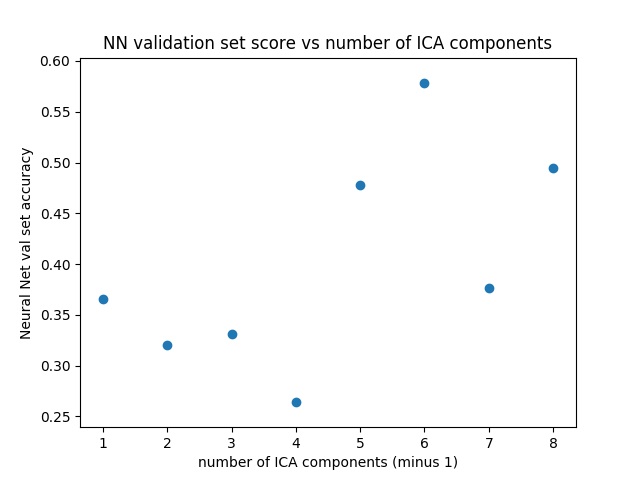
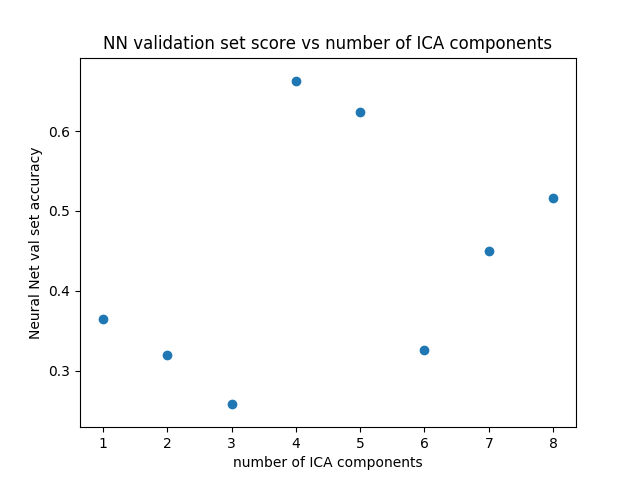
separate file for NN performance after clustering and dim reduc

diff --git a/nn.py b/nn.py
@@ -1,0 +1,107 @@
+from sklearn.decomposition import PCA, FastICA
+from sklearn.random_projection import GaussianRandomProjection
+from sklearn.feature_selection import RFE
+from sklearn.linear_model import LogisticRegression
+from sklearn.neural_network import MLPClassifier
+from sklearn.cluster import KMeans
+from sklearn.mixture import GaussianMixture
+from data import load_tennis_data, load_titanic_data
+import matplotlib.pyplot as plt
+import numpy.random as random
+import numpy as np
+
+# IMPORT DATA
+
+tit_X_train, tit_y_train, tit_X_test, tit_y_test = load_titanic_data()
+
+# Split off validation set from training set
+val_cutoff = 3*len(tit_X_train)//4
+tit_X_val = tit_X_train[val_cutoff:]
+tit_y_val = tit_y_train[val_cutoff:]
+tit_X_train = tit_X_train[:val_cutoff]
+tit_y_train = tit_y_train[:val_cutoff]
+
+tit_df = load_titanic_data(form="original df")
+tit_features, tit_labels = load_titanic_data(form="df")
+
+tit_cols = tit_features.columns
+print(tit_cols)
+
+# ICA
+
+print("\n ICA \n")
+
+ica_models = []
+for n in range(1,9):
+    # max iter set high because of convergence warnings
+    ica = FastICA(n_components=n, max_iter=1000000)
+    ica_models.append(ica)
+
+# ICA --> NN
+
+print("\nICA to NN\n")
+
+scores = []
+nn = MLPClassifier(batch_size=16, hidden_layer_sizes=7, alpha=0.001, learning_rate_init=0.01, shuffle=False, random_state=20)
+for ica_model in ica_models:
+    ica_X_train = ica_model.fit_transform(tit_X_train)
+    print(ica_X_train.shape)
+    nn.fit(ica_X_train, tit_y_train)
+
+    ica_X_val = ica_model.fit_transform(tit_X_val)
+    score = nn.score(ica_X_val, tit_y_val)
+    print("ICA to NN val set score", score)
+    scores.append(score)
+
+plt.scatter([1,2,3,4,5,6,7,8], scores)
+plt.title("NN validation set score vs number of ICA components")
+plt.xlabel("number of ICA components")
+plt.ylabel("Neural Net val set accuracy")
+plt.savefig("ica_to_nn_scores_titanic.png")
+plt.clf()
+
+# KMEANS --> NN
+
+print("\nKMEANS to NN\n")
+
+kmeans_models = []
+for k in range(2,9):
+    model = KMeans(n_clusters=k)
+    kmeans_models.append(model)
+
+scores = []
+p = 1
+for kmeans_model in kmeans_models:
+    kmeans_model.fit(tit_X_train)
+    l = tit_X_train.shape[0]
+    kmeans_X_train = np.zeros((l,p))
+    labels = kmeans_model.labels_
+    for j in range(len(labels)):
+        label = labels[j]
+        if label != 0:
+            kmeans_X_train[j,label-1] = 1
+
+    # print("number of clusters", p+1)
+    # print(kmeans_X_train[:10])
+    nn.fit(kmeans_X_train, tit_y_train)
+
+    val_labels = kmeans_model.predict(tit_X_val)
+    l1 = tit_X_val.shape[0]
+    kmeans_X_val = np.zeros((l1,p))
+    for j in range(len(val_labels)):
+        label = val_labels[j]
+        if label != 0:
+            kmeans_X_val[j,label-1] = 1
+    print(kmeans_X_val[:10])
+    score = nn.score(kmeans_X_val, tit_y_val)
+    print("kmeans to NN val set score", score)
+    scores.append(score)
+    p += 1
+
+plt.scatter([2,3,4,5,6,7,8], scores)
+plt.title("NN validation set score vs number of clusters")
+plt.xlabel("number of clusters")
+plt.ylabel("Neural Net val set accuracy")
+plt.savefig("kmeans_to_nn_scores_titanic.png")
+plt.clf()
+

diff --git a/dim_reduc_titanic.py b/dim_reduc_titanic.py
@@ -82,21 +82,36 @@ for i,model in zip(range(len(rfe_models)),rfe_models):
 
 
 # ICA --> Neural Net
+# Now in nn.py
 
-scores = []
-nn = MLPClassifier(batch_size=16, hidden_layer_sizes=7, alpha=0.001, learning_rate_init=0.01, shuffle=False, random_state=20)
-for ica_model in ica_models:
-    ica_X_train = ica_model.fit_transform(tit_X_train)
-    print(ica_X_train.shape)
-    nn.fit(ica_X_train, tit_y_train)
+# scores = []
+# nn = MLPClassifier(batch_size=16, hidden_layer_sizes=7, alpha=0.001, learning_rate_init=0.01, shuffle=False, random_state=20)
+# for ica_model in ica_models:
+#     ica_X_train = ica_model.fit_transform(tit_X_train)
+#     print(ica_X_train.shape)
+#     nn.fit(ica_X_train, tit_y_train)
 
-    ica_X_val = ica_model.fit_transform(tit_X_val)
-    score = nn.score(ica_X_val, tit_y_val)
-    print("val set score", score)
-    scores.append(score)
+#     ica_X_val = ica_model.fit_transform(tit_X_val)
+#     score = nn.score(ica_X_val, tit_y_val)
+#     print("val set score", score)
+#     scores.append(score)
 
-plt.scatter([1,2,3,4,5,6,7,8], scores)
-plt.title("NN validation set score vs number of ICA components")
-plt.xlabel("number of ICA components (minus 1)")
-plt.ylabel("Neural Net val set accuracy")
-plt.savefig("ica_to_nn_scores_titanic.png")
+# plt.scatter([1,2,3,4,5,6,7,8], scores)
+# plt.title("NN validation set score vs number of ICA components")
+# plt.xlabel("number of ICA components")
+# plt.ylabel("Neural Net val set accuracy")
+# plt.savefig("ica_to_nn_scores_titanic.png")
+# plt.clf()
+
+
+
+
+
+
+
+
+
+
+
+
+
